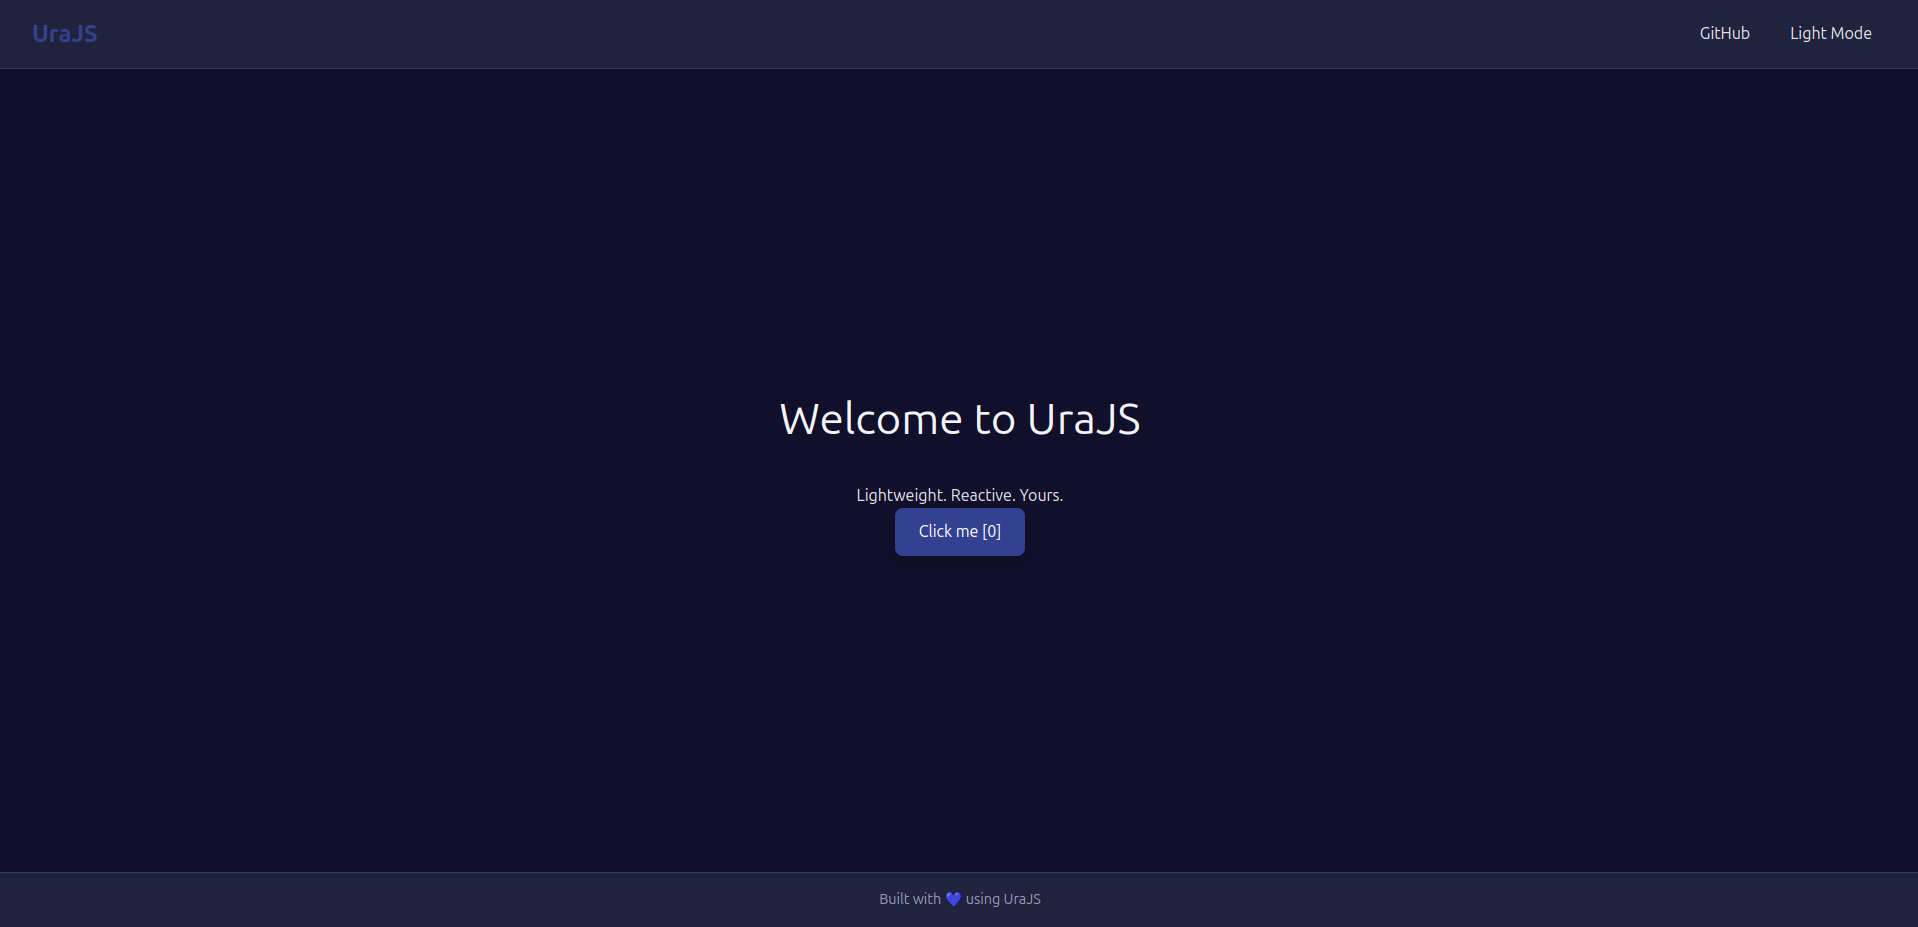
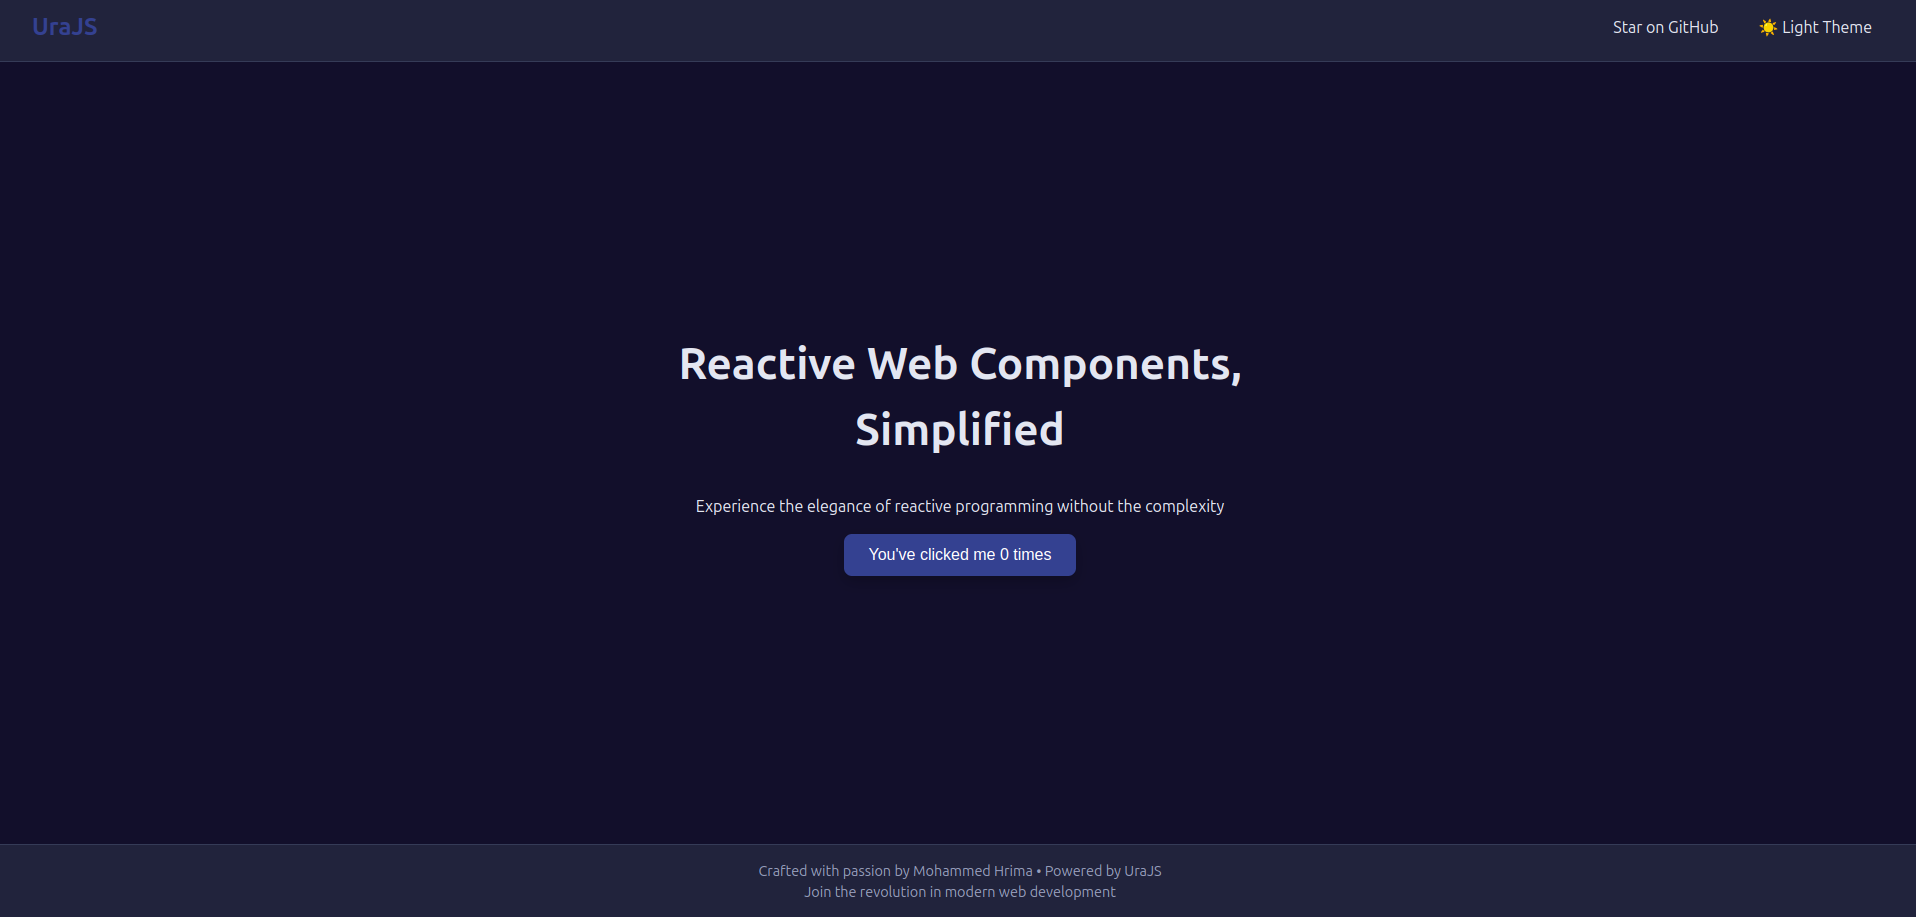
I had enough, if/else tags need to be checked

diff --git a/src/pages/home/home.jsx b/src/pages/home/home.jsx
@@ -1,7 +1,7 @@
 import Ura from 'ura';
 
 function Home(props) {
-  document.title = "Home Page";
+  document.title = "UraJS - Modern Web Revolution";
   const [render, State] = Ura.init();
   const [count, setCount] = State(0);
   const [darkMode, setDarkMode] = State(true);
@@ -10,26 +10,54 @@ function Home(props) {
     <root>
       <div className={`home ${darkMode() ? 'dark' : 'light'}`}>
         <header className="navbar">
-          <div className="logo">UraJS</div>
+          <div className="logo">
+            <span className="logo-ura">Ura</span>
+            <span className="logo-js">JS</span>
+          </div>
           <nav>
-            <a href="https://github.com/mohammedhrima/UraJS/" target="_blank">GitHub</a>
-            <a onclick={() => setDarkMode(!darkMode())}>
-              {darkMode() ? 'Light Mode' : 'Dark Mode'}
+            <a href="https://github.com/mohammedhrima/UraJS/" target="_blank" className="github-link">
+              <i className="icon-github"></i> Star on GitHub
+            </a>
+            <a onclick={() => setDarkMode(!darkMode())} className="theme-toggle">
+              {darkMode() ? '☀ Light Theme' : '🌙 Dark Theme'}
             </a>
           </nav>
         </header>
 
         <main className="body">
-          <h1>Welcome to UraJS</h1>
-          <p ura-if={darkMode() == true} className="subtitle">Lightweight. 1 Reactive. Yours.</p>
-          {/* <p ura-if={darkMode()} className="subtitle">Lightweight. 2 Reactive. Yours.</p> */}
-          <button onclick={() => setCount(count() + 1)}>
-            Click me [{count()}]
-          </button>
+          <h1 className="hero-title">
+            <span className="hero-highlight">Reactive</span> Web Components,<br />
+            <span className="hero-highlight">Simplified</span>
+          </h1>
+          
+          <p className="subtitle">
+            {darkMode() 
+              ? "Experience the elegance of reactive programming without the complexity" 
+              : "A lightweight framework that gets out of your way so you can create"}
+          </p>
+          
+          <div className="cta-section">
+            <button 
+              onclick={() => setCount(count() + 1)} 
+              className="primary-btn"
+            >
+              You've clicked me {count()} {count() === 1 ? 'time' : 'times'}
+            </button>
+            
+            <p className="counter-message" ura-if={count() > 5}>
+              Wow! You really like clicking buttons!
+            </p>
+          </div>
         </main>
 
         <footer className="footer">
-          <p>Built with 💙 using UraJS</p>
+          <p>
+            Crafted with passion by <span className="author">Mohammed Hrima</span> • 
+            Powered by <span className="ura-highlight">UraJS</span>
+          </p>
+          <p className="footer-note">
+            Join the revolution in modern web development
+          </p>
         </footer>
       </div>
     </root>

diff --git a/src/ura/code.tsx b/src/ura/code.tsx
@@ -96,8 +96,7 @@ function e(tag: Tag, props: Props = {}, ...children: any) {
       }
    }
    else if (tag === "loop" || tag === "dloop") {
-      console.warn("loop / dloop tags are depricated");
-
+      // console.warn("loop / dloop tags are depricated");
       let loopChildren = (props.on || []).flatMap((elem, id) =>
          (children || []).map((child) => {
             const evaluatedChild =
@@ -120,26 +119,26 @@ function e(tag: Tag, props: Props = {}, ...children: any) {
       };
    }
    //@ts-ignore
-   else if (props && props["ura-if"] != undefined) {
-      children = check(props["ura-if"] === true && children.length ? children : []);
-      console.log("cond:", props["ura-if"]);
-      console.log("children:", children);
-
+   else if (props && props["ura-if"] !== undefined) {
+      if (!props["ura-if"]) return null;
+      children = check(children.length ? children : []);
       ifTag = {
          tag: tag,
          type: ELEMENT,
          props: props,
-         children: check(children || []),
+         children: children,
       };
       return ifTag;
    }
    // @ts-ignore
    else if (props && props["ura-else"] !== undefined) {
+      if (!ifTag || ifTag.props.cond) return null;
+      children = check(!ifTag.props.cond && children.length ? children : []);
       return {
          type: ELSE,
          tag: "else",
-         props: ifTag?.props || {},
-         children: check(ifTag && !ifTag.props.cond && children.length ? children : []),
+         props: props,
+         children: children,
       };
    }
    //@ts-ignore
@@ -334,13 +333,12 @@ function execute(mode: number, prev: VDOM, next: VDOM = null) {
 
 // RECONCILIATION
 function reconciliate(prev: VDOM, next: VDOM) {
-   if(
-      (prev.props && prev.props["ura-if"] != undefined) || 
+   if (
+      (prev.props && prev.props["ura-if"] != undefined) ||
       (next.props && next.props["ura-if"] != undefined)
-   )
-   {
+   ) {
       console.log("compare: ", prev);
-      console.log("with: ", next);   
+      console.log("with: ", next);
    }
    if (prev.type != next.type || !deepEqual(prev.props, next.props))
       return execute(REPLACE, prev, next);

diff --git a/src/pages/home/home.css b/src/pages/home/home.css
@@ -55,7 +55,7 @@
     h1 {
       font-size: 2.75rem;
       margin-bottom: 2rem;
-      color: #f1f5f9;
+      /* //color: #f1f5f9; */
     }
     p{
       margin-bottom: 1rem;
@@ -94,9 +94,19 @@
 .dark {
   background-color: var(--bg);
   color: var(--text);
+  .body {
+    h1 {
+      color: var(--text);
+    }
+  }
 }
 
 .light {
   background-color: var(--bg-white);
   color: #1e293b;
+  .body {
+    h1 {
+      color: var(--nav);
+    }
+  }
 }

diff --git a/README.md b/README.md
@@ -43,7 +43,7 @@ To get started with **UraJS**, follow these simple steps:
 5. **Open your browser** and visit http://localhost:17000 to see the app running.
 + you should see something like this
 <p align="center">
-  <img src="./src/assets/home-page.png" alt="Logo" width="500">
+  <img src="./src/assets/home-page.png" alt="Logo" width="800">
 </p>
 
 6. **all commands**:
@@ -143,7 +143,7 @@ After generating the route and its styles, visit the route in the browser by nav
 ```
 + you will get a validation messages like this
 <p align="center">
-  <img src="./src/assets/config.png" alt="Logo" width="300">
+  <img src="./src/assets/config.png" alt="Logo" width="500">
 </p>
 
 ## Example Generated JSX
